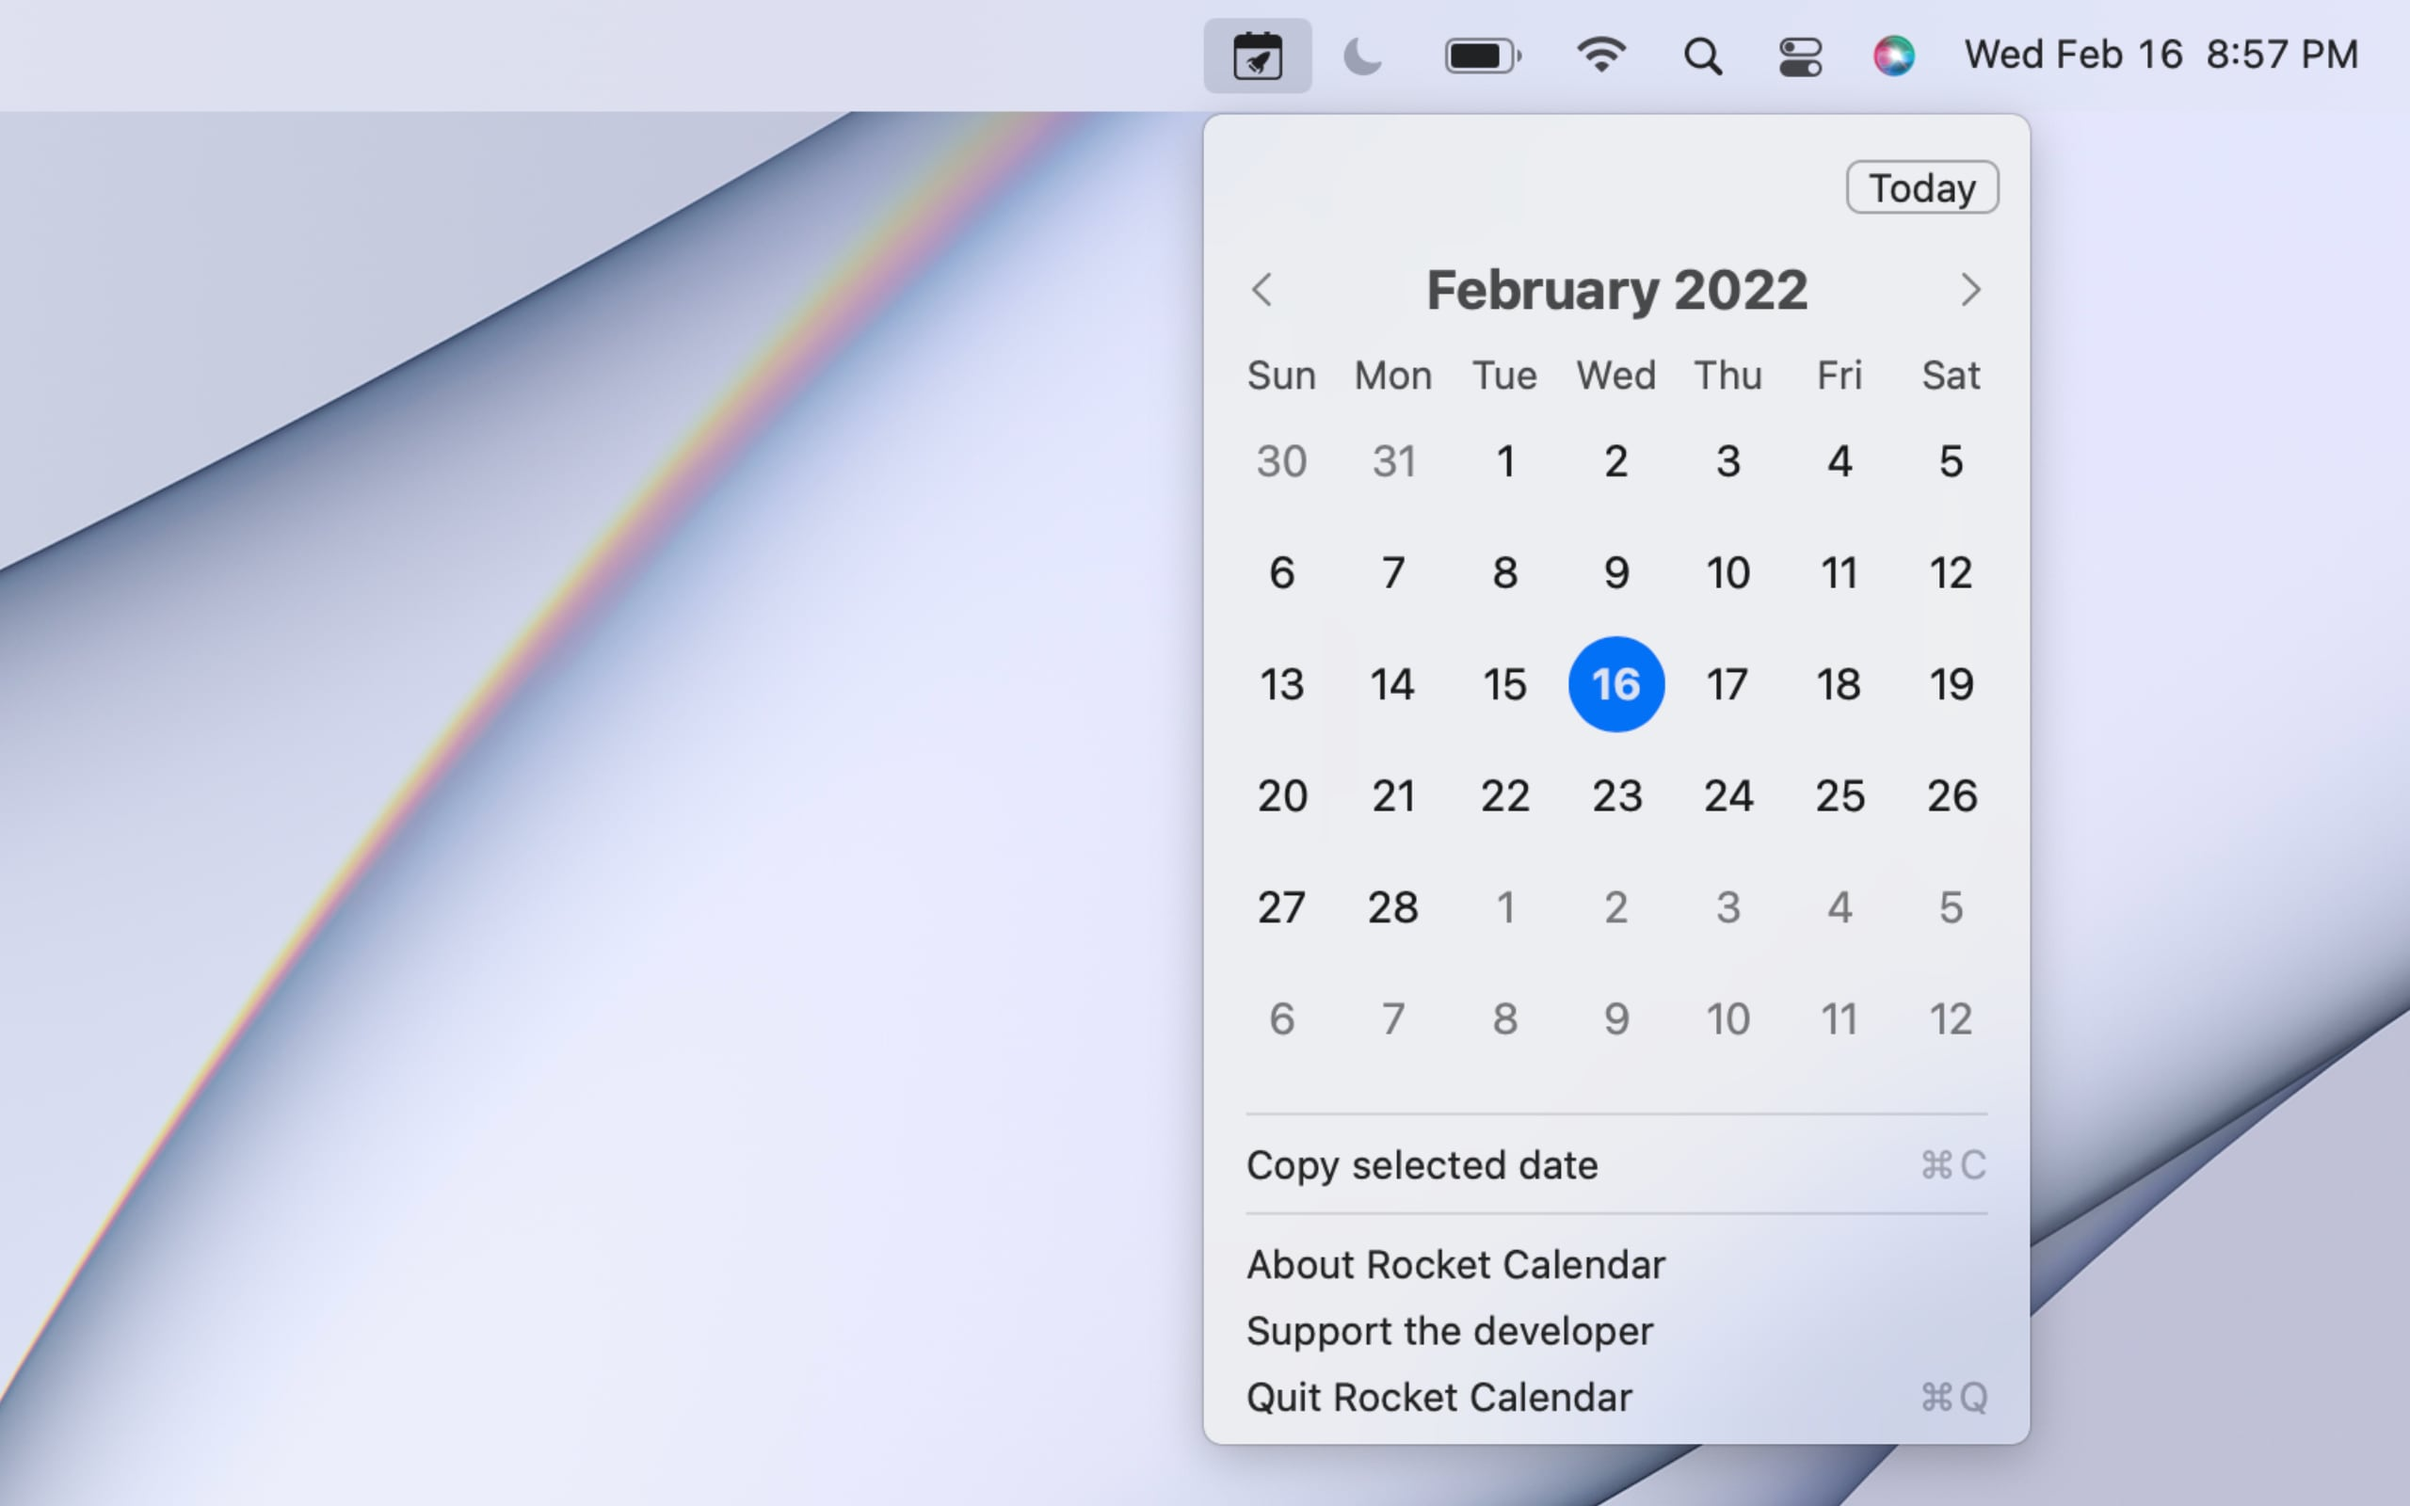
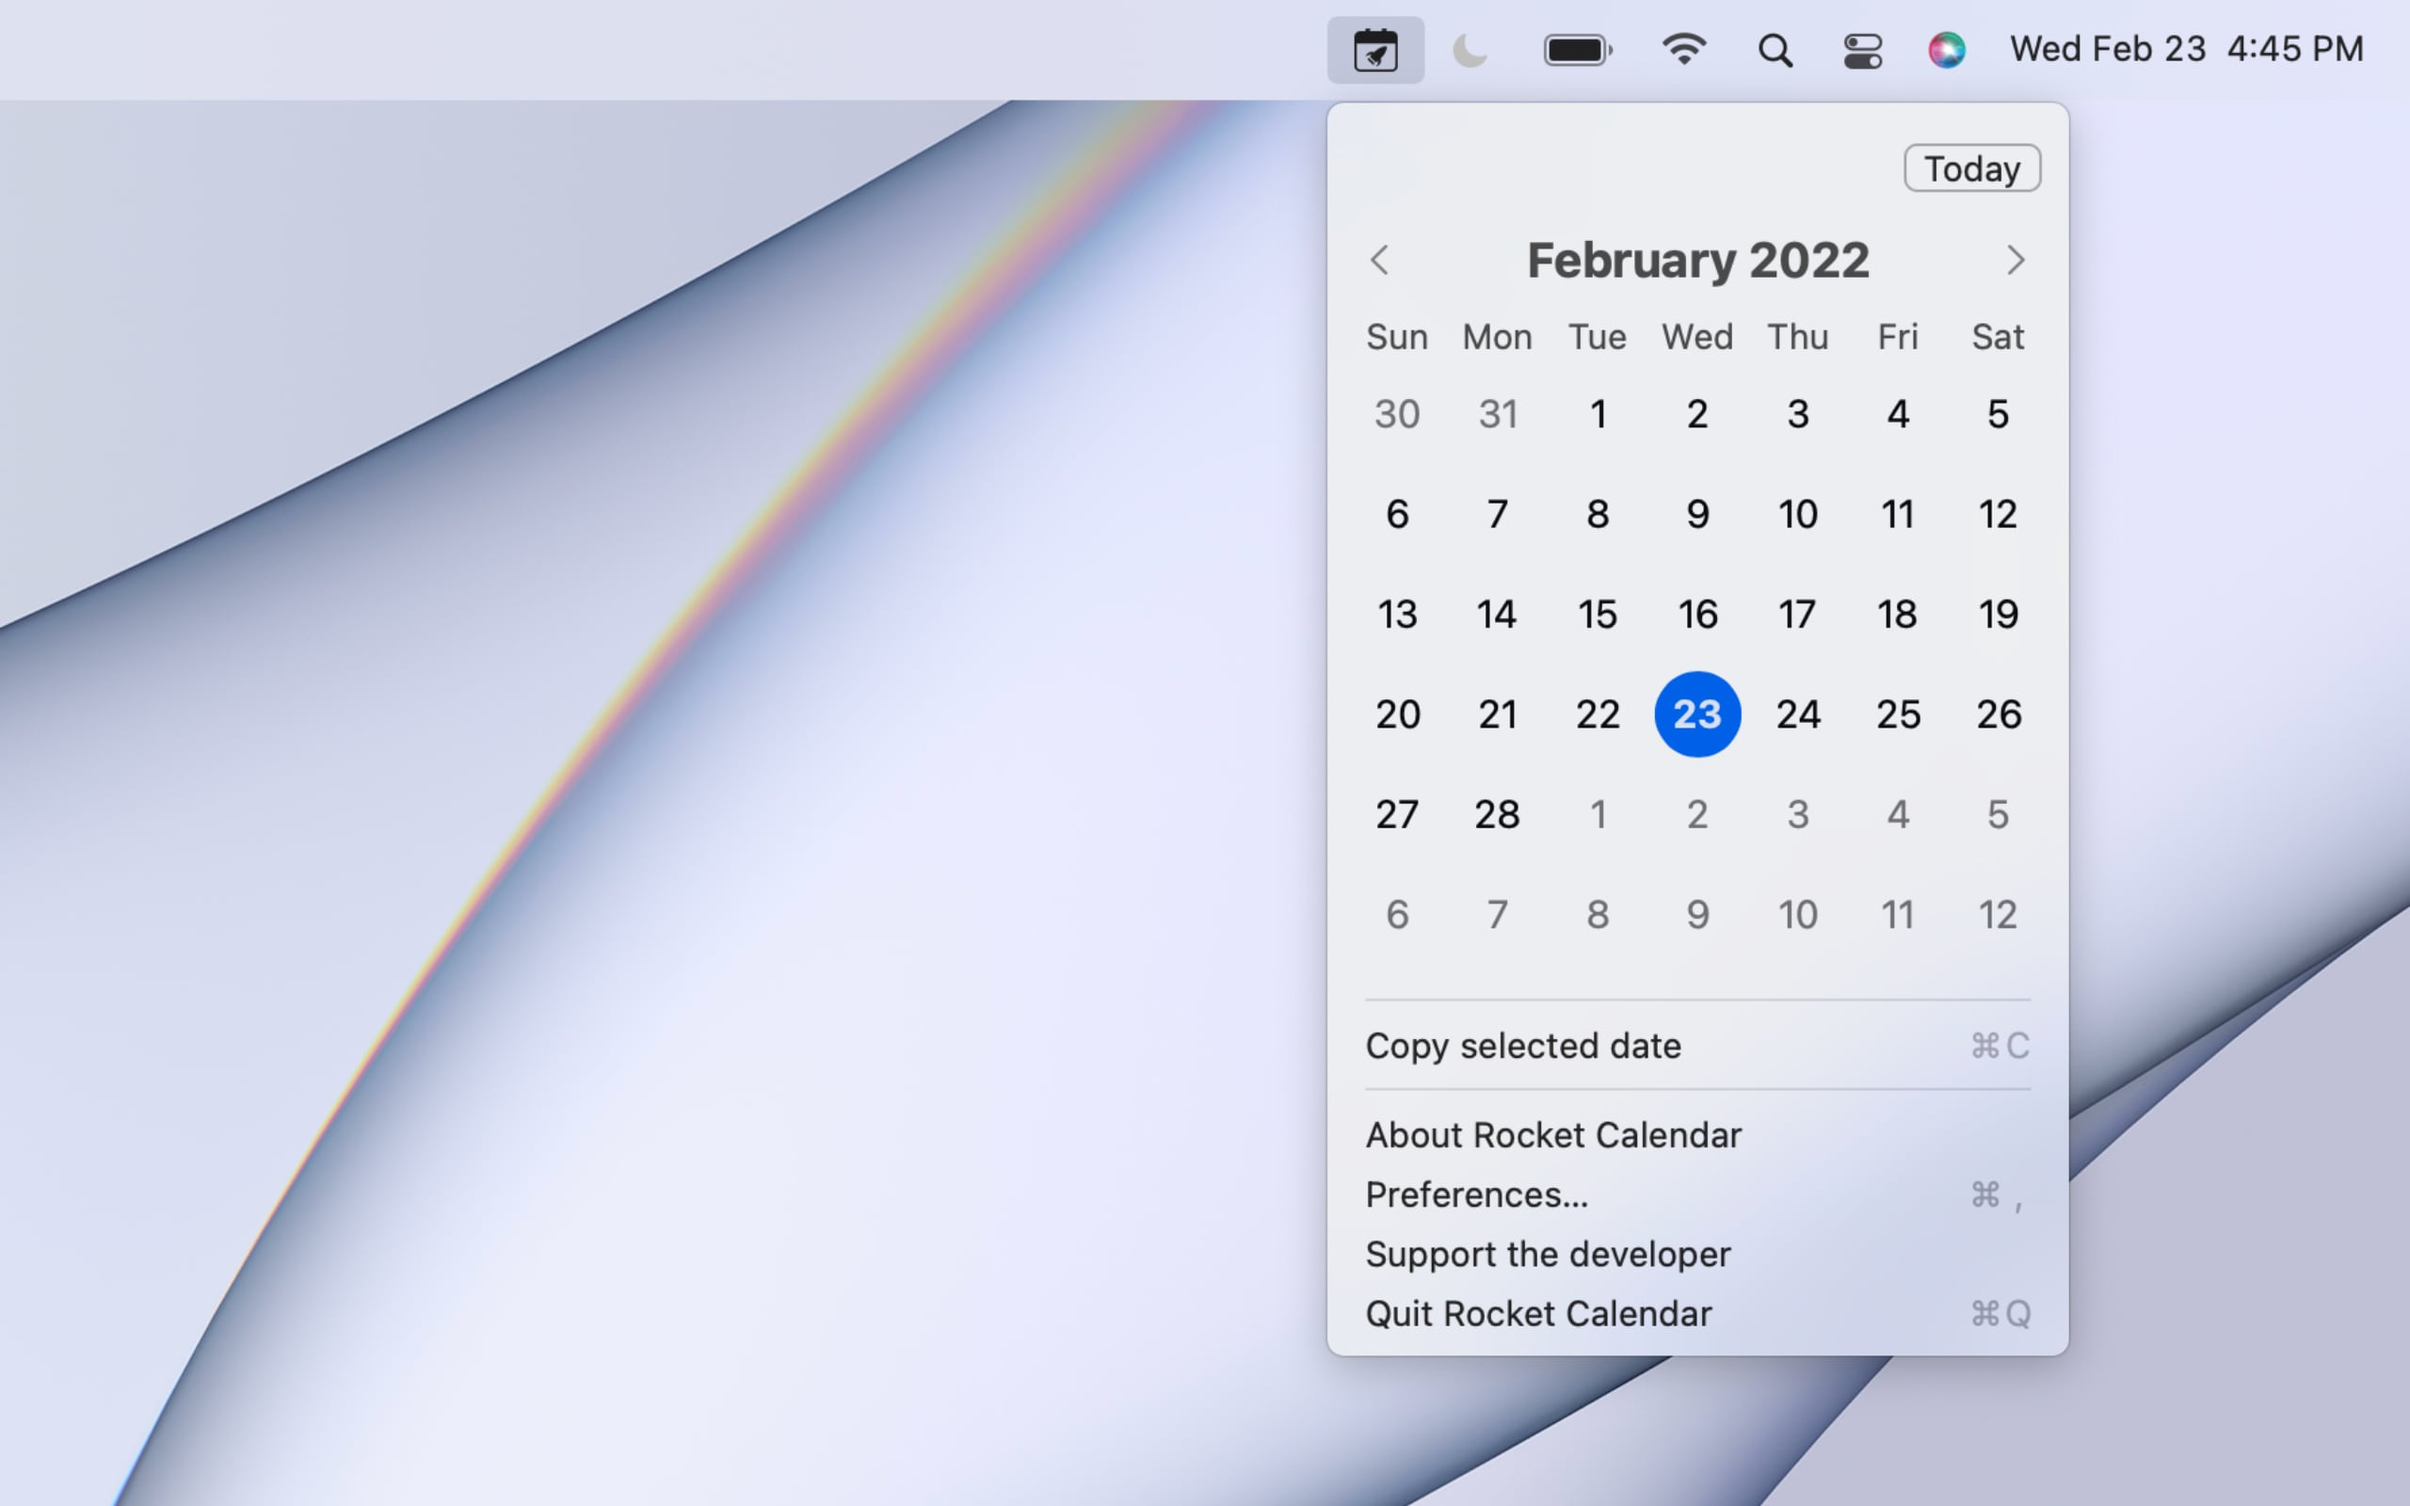
Update screenshots/copy

diff --git a/apps/RocketCalendar.md b/apps/RocketCalendar.md
@@ -1,6 +1,8 @@
 # Rocket Calendar
 
-Rocket Calendar is a speedy, always-accessible calendar that lives in your menu bar. You can quickly check dates, navigate between months, and even copy the selected date to your clipboard! Re-selecting today's date is always a single click away.
+![Rocket Calendar Icon](/assets/images/RocketCalendar/RocketCalendarIcon.png){: width="200" }
+
+Rocket Calendar is a speedy, always-accessible calendar that lives in your menu bar. You can quickly check dates, navigate between months, and even copy the selected date to your clipboard! Heading back to today's date is always a single click away.
 
 ![Dark Mode Screenshot](/assets/images/RocketCalendar/ScreenshotDark.jpg)
 
@@ -10,7 +12,9 @@ Dark and Light appearances are both supported and you can change the color of th
 
 The format for the copied date can be customized by changing your date format in System Preferences.
 
-You can run Rocket Calendar automatically by adding it to your Login Items in System Preferences.
+You can run Rocket Calendar automatically when logging in and setup a global keyboard shortcut for launching the calendar menu in the Preferences menu.
+
+![Preferences Pane Screenshot](/assets/images/RocketCalendar/PreferencesPane.jpg){: width="500" }
 
 ## Privacy Policy
 
